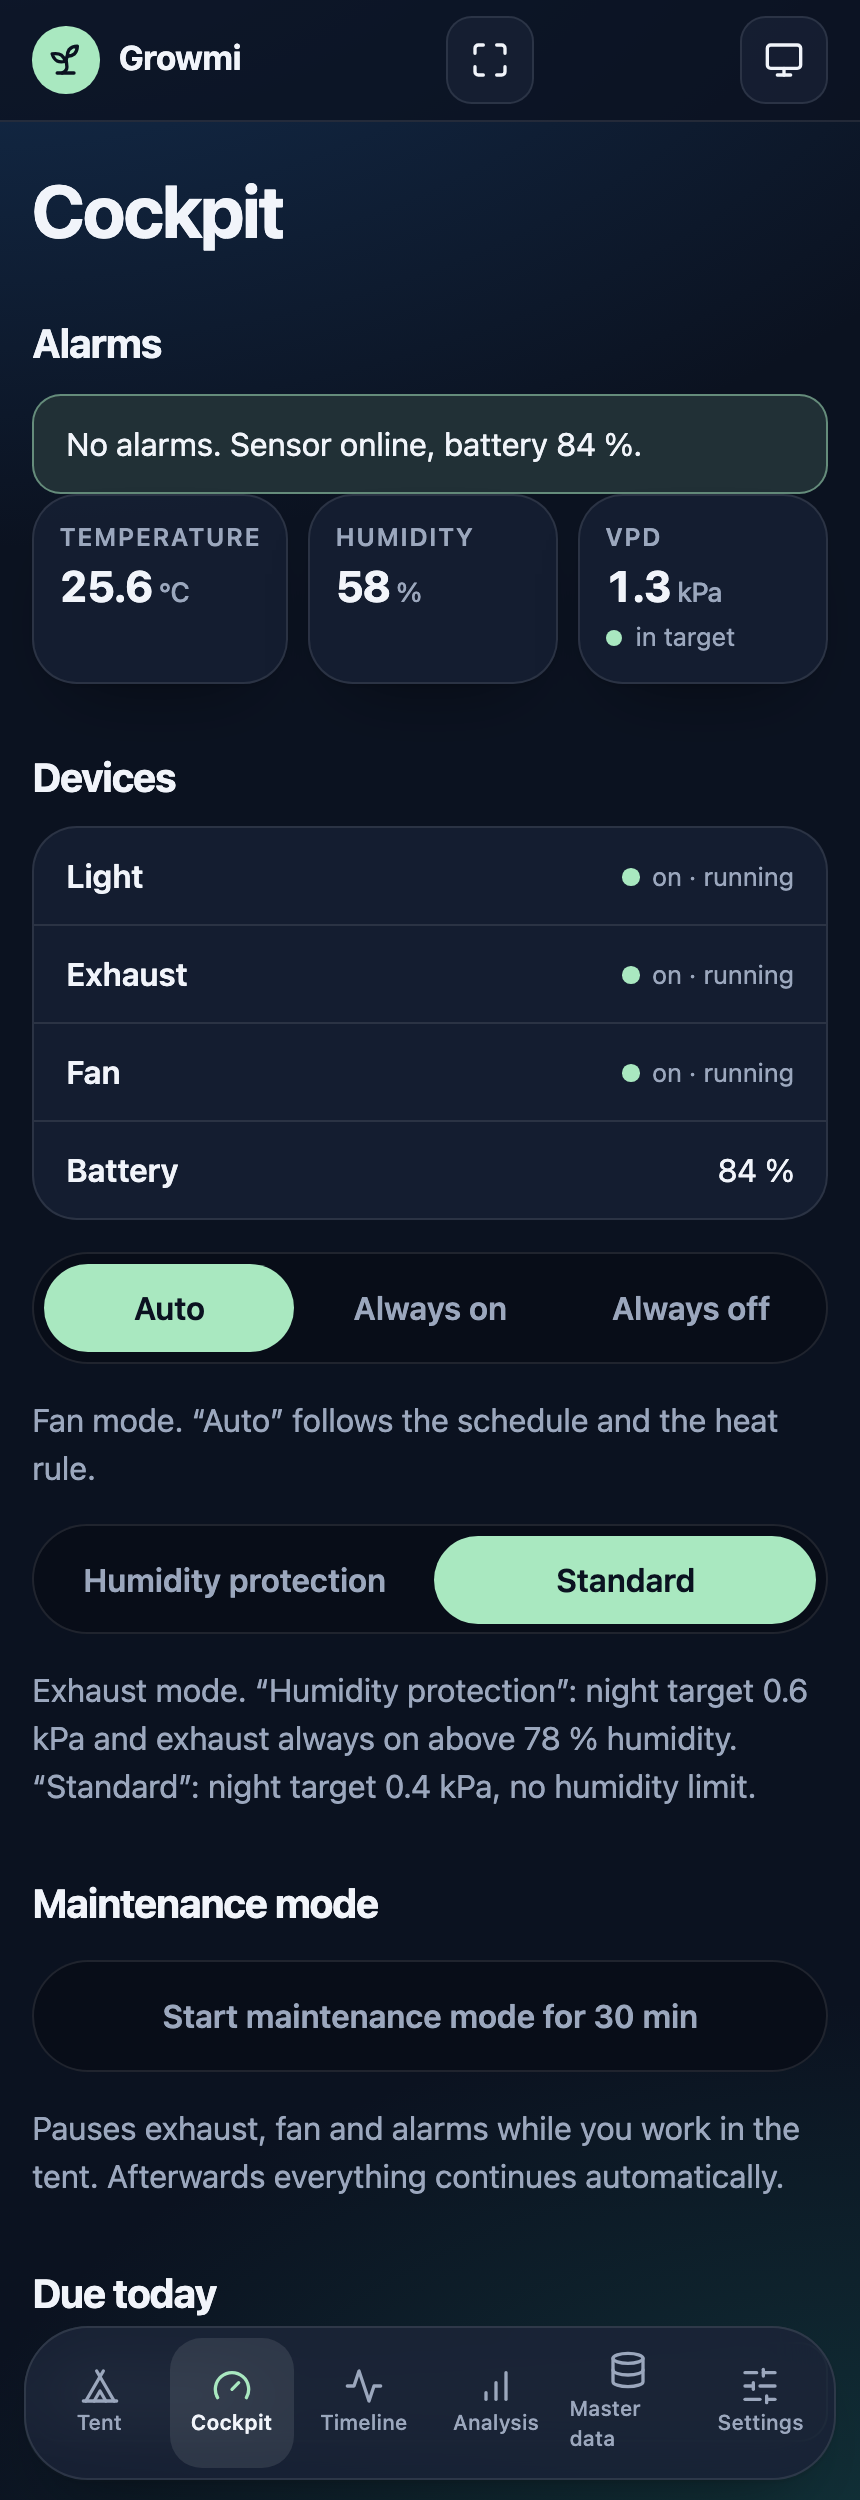
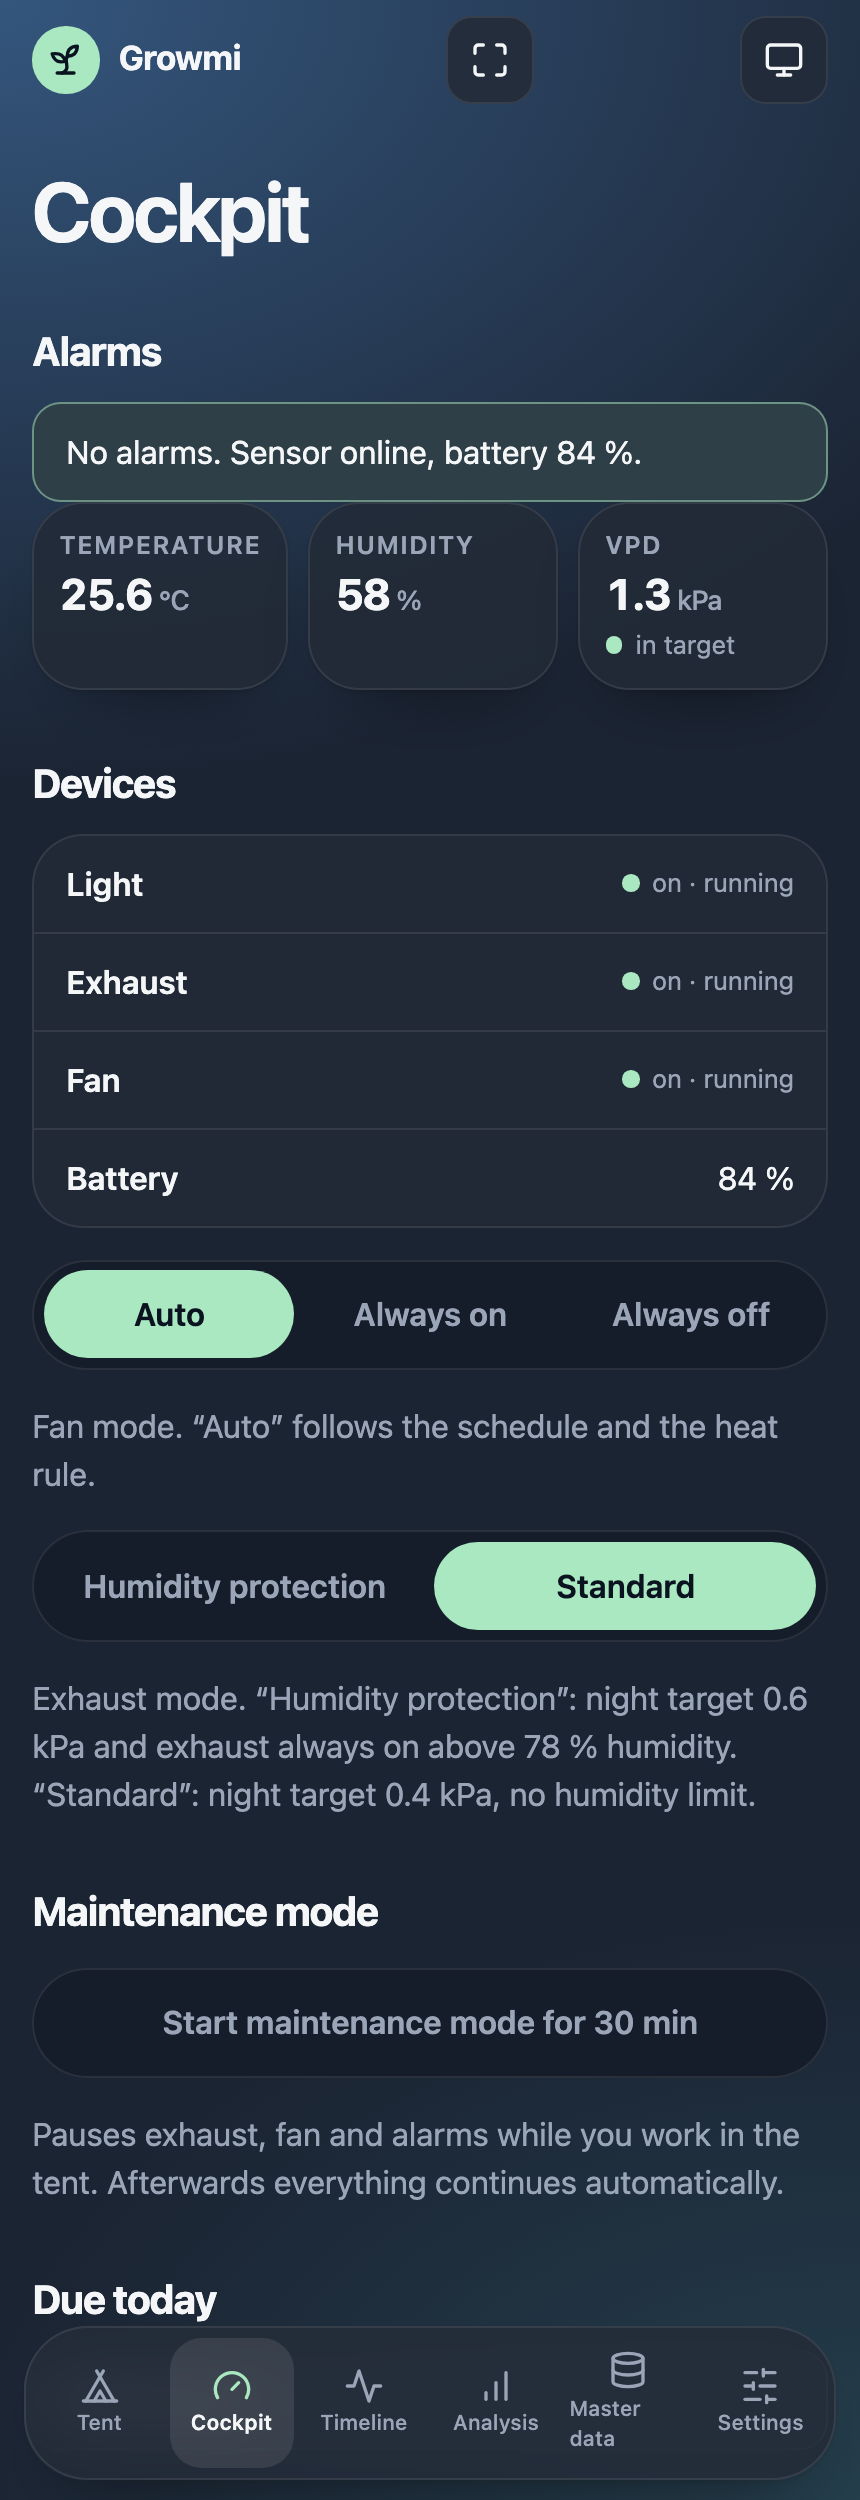
Overview in the dashboard look: climate card, pill actions, slate background (0.28.1)

diff --git a/growmi/app/static/style.css b/growmi/app/static/style.css
@@ -1,11 +1,11 @@
 /* Dark (default, deep navy) and light theme. Hex colors live only in the token blocks (a test checks it). */
 :root {
   color-scheme: dark;
-  --bg: #0b1220; --bg-alt: #080d18; --card: #182136; --line: #2a3550;
-  --text: #f1f4fa; --muted: #9ba7bd; --border: #6a7894;
+  --bg: #1b2433; --bg-alt: #161d2a; --card: #222a37; --line: #2c3648;
+  --text: #f4f6f8; --muted: #9aa5b8; --border: #7a89a3;
   --accent: #a9e8c0; --on-accent: #0b1220; --danger: #f4a3b3; --on-danger: #0b1220;
   --link: #a9c4f7; --focus: #c9bcff;
-  --glow-a: #1f4f86; --glow-b: #1c6b64;
+  --glow-a: #34567d; --glow-b: #2a4f5c;
   --ph-keimling: #f5d98b; --on-keimling: #0b1220;
   --ph-wachstum: #a9e8c0; --on-wachstum: #0b1220;
   --ph-bluete: #c3b1f7; --on-bluete: #0b1220;
@@ -42,9 +42,9 @@
 }
 /* theme switch: data-theme is set by the toggle in the app bar (stored per device); without it the system decides */
 :root {
-  --radius: 1.4rem;
-  --surface: color-mix(in srgb, var(--card) 72%, transparent);
-  --hairline: color-mix(in srgb, var(--text) 10%, transparent);
+  --radius: 1.6rem;
+  --surface: color-mix(in srgb, var(--card) 88%, transparent);
+  --hairline: color-mix(in srgb, var(--text) 9%, transparent);
   --shadow: 0 1px 2px color-mix(in srgb, black 12%, transparent),
             0 18px 36px -22px color-mix(in srgb, black 55%, transparent);
   --glow: color-mix(in srgb, var(--accent) 14%, transparent);
@@ -55,8 +55,8 @@ html { -webkit-text-size-adjust: 100%; }
 body { margin: 0; min-height: 100vh; color: var(--text); line-height: 1.5; font-size: 1rem;
   font-family: ui-sans-serif, system-ui, -apple-system, "Segoe UI", Roboto, sans-serif; accent-color: var(--accent);
   caret-color: var(--accent); scrollbar-color: var(--border) var(--bg-alt);
-  background: radial-gradient(60rem 36rem at -5% -8%, color-mix(in srgb, var(--glow-a) 55%, transparent), transparent 65%),
-    radial-gradient(48rem 30rem at 105% 105%, color-mix(in srgb, var(--glow-b) 40%, transparent), transparent 65%), var(--bg);
+  background: radial-gradient(50rem 34rem at 0% 0%, var(--glow-a), transparent 72%),
+    radial-gradient(40rem 26rem at 100% 100%, color-mix(in srgb, var(--glow-b) 60%, transparent), transparent 70%), var(--bg);
   background-attachment: fixed; }
 ::selection { background: color-mix(in srgb, var(--accent) 35%, transparent); }
 :focus-visible { outline: 3px solid var(--focus); outline-offset: 2px; }
@@ -69,8 +69,7 @@ table, .num { font-variant-numeric: tabular-nums; }
 
 /* app shell: brand bar on top, tab bar at the bottom on phones */
 .appbar { position: sticky; top: 0; z-index: 10; display: flex; align-items: center; justify-content: space-between;
-  gap: 1rem; padding: .6rem 1rem; background: color-mix(in srgb, var(--bg) 80%, transparent);
-  border-bottom: 1px solid var(--hairline); }  /* no backdrop-filter here: it would trap the fixed tab bar */
+  gap: 1rem; padding: .6rem 1rem; background: transparent; }  /* no backdrop-filter here: it would trap the fixed tab bar */
 .brand { display: inline-flex; align-items: center; gap: .6rem; color: var(--text); text-decoration: none;
   font-weight: 700; letter-spacing: -.01em; font-size: 1.05rem; }
 .brand .i { width: 2.1rem; height: 2.1rem; padding: .42rem; border-radius: 50%; color: var(--on-accent); background: var(--accent); }
@@ -90,7 +89,7 @@ main { padding: 1.25rem 1rem 3rem; max-width: 48rem; margin: 0 auto; }
   main { padding-bottom: 6.5rem; }
 }
 
-h1 { font-size: 2.3rem; line-height: 1.1; font-weight: 700; letter-spacing: -.03em; margin: .25rem 0 1.2rem; text-wrap: balance; }
+h1 { font-size: 2.6rem; line-height: 1.08; font-weight: 650; letter-spacing: -.035em; margin: .25rem 0 1.2rem; text-wrap: balance; }
 h2 { font-size: 1.25rem; font-weight: 700; margin: 2rem 0 .6rem; letter-spacing: -.02em; }
 h3 { font-size: 1.02rem; margin: 1.25rem 0 .5rem; }
 p { max-width: 65ch; }
@@ -351,3 +350,30 @@ output { font-size: .9rem; }
 .tile-ico { display: grid; place-items: center; width: 2.4rem; height: 2.4rem; margin-bottom: .35rem; border-radius: 50%;
   background: var(--c); color: var(--bg); }
 .c-phase { --c: var(--ph-wachstum); } .c-temp { --c: var(--ph-trocknung); } .c-rh { --c: var(--link); } .c-vpd { --c: var(--ph-bluete); }
+
+/* dashboard cards: round icon badge, big title, calm subtitle, pills */
+.card { padding: 1.3rem; border-radius: 1.9rem; background: var(--surface); border: 1px solid var(--hairline);
+  box-shadow: var(--shadow), inset 0 1px 0 color-mix(in srgb, var(--text) 6%, transparent); margin-bottom: 1rem; }
+.card-head { display: flex; align-items: center; gap: .9rem; }
+.card-titles { flex: 1; min-width: 0; }
+.card-title { margin: 0; font-size: 1.6rem; font-weight: 600; letter-spacing: -.02em; line-height: 1.15; }
+.card-sub { margin: .15rem 0 0; color: var(--muted); font-size: .95rem; }
+.section-title { margin: 1.6rem .2rem .7rem; }
+.ico { display: grid; place-items: center; flex: none; width: 2.9rem; height: 2.9rem; border-radius: 50%; background: var(--c); color: var(--bg); }
+.pill { display: inline-flex; align-items: center; gap: .45rem; padding: .35rem .85rem; border-radius: 999px; font-weight: 600; font-size: .9rem;
+  background: color-mix(in srgb, var(--c) 18%, transparent); color: var(--c); --c: var(--accent); }
+.pill i { width: .55rem; height: .55rem; border-radius: 50%; background: currentColor; }
+.pill.bad { --c: var(--danger); }
+.stats { display: grid; grid-template-columns: repeat(auto-fit, minmax(7.5rem, 1fr)); gap: .7rem; margin-top: 1.1rem; }
+.stat { display: flex; flex-direction: column; gap: .55rem; padding: 1rem; border-radius: 1.3rem;
+  background: color-mix(in srgb, var(--bg-alt) 55%, transparent); border: 1px solid var(--hairline); }
+.stat-value { font-size: 2rem; font-weight: 500; letter-spacing: -.03em; line-height: 1; }
+.stat-value small { font-size: 1rem; color: var(--muted); margin-left: .1rem; }
+.bar { height: .35rem; border-radius: 999px; background: color-mix(in srgb, var(--text) 12%, transparent); overflow: hidden; }
+.bar i { display: block; height: 100%; border-radius: inherit; background: var(--c); }
+.stat-label { color: var(--c); font-size: .9rem; }
+.quick-pills { display: grid; grid-template-columns: 1fr 1fr; gap: .6rem; }
+.pill-btn { display: flex; align-items: center; gap: .7rem; padding: .55rem 1rem .55rem .55rem; border-radius: 999px; min-width: 0;
+  background: var(--surface); border: 1px solid var(--hairline); color: var(--text); text-decoration: none; font-weight: 600; }
+.pill-btn .ico { width: 2.5rem; height: 2.5rem; }
+@media (min-width: 56rem) { main { max-width: 56rem; } }

diff --git a/growmi/app/templates/home.html b/growmi/app/templates/home.html
@@ -7,19 +7,32 @@
 {% if undo %}<div class="all-clear" role="status"><strong>{{ undo.sorte }}</strong> <span>Gegossen.</span>
   <form class="inline-form" method="post" action="{{ root }}/eintrag/watering/{{ undo.id }}/loeschen"><input type="hidden" name="back" value="/"><button class="btn ghost">Rückgängig</button></form></div>{% endif %}
 {% include "_phase_banner.html" %}
-{% if live.has.values()|select|list %}<section class="tiles" aria-label="Aktuelle Werte">
-  {% if live.has.phase %}<div class="tile"><span class="tile-ico c-phase">{{ icon('sprout') }}</span><span class="tile-label">Box-Phase</span><span class="tile-value">{{ tr(live.phase) }}</span></div>{% endif %}
-  {% if live.has.temp %}<div class="tile"><span class="tile-ico c-temp">{{ icon('thermo') }}</span><span class="tile-label">Temperatur</span><span class="tile-value num">{{ live.temp or '–' }}{% if live.temp %}<small> °C</small>{% endif %}</span></div>{% endif %}
-  {% if live.has.rh %}<div class="tile"><span class="tile-ico c-rh">{{ icon('droplet') }}</span><span class="tile-label">Luftfeuchte</span><span class="tile-value num">{{ live.rh or '–' }}{% if live.rh %}<small> %</small>{% endif %}</span></div>{% endif %}
-  {% if live.has.vpd %}<div class="tile"><span class="tile-ico c-vpd">{{ icon('gauge') }}</span><span class="tile-label">VPD</span><span class="tile-value num">{{ live.vpd or '–' }}{% if live.vpd %}<small> kPa</small>{% endif %}</span>
-    {% if live.vpd_status %}<span class="tile-status {{ live.vpd_status }}"><i aria-hidden="true"></i>{{ tr('im Ziel') if live.vpd_status == 'ok' else tr('außerhalb') }}</span>{% endif %}</div>{% endif %}
+{% if live.has.values()|select|list %}<section class="card hero" aria-label="Aktuelle Werte">
+  <div class="card-head">
+    <span class="ico c-phase">{{ icon('sprout') }}</span>
+    <div class="card-titles">
+      <h2 class="card-title">{% if live.has.phase %}{{ tr(live.phase) }}{% else %}Klima{% endif %}</h2>
+      <p class="card-sub">{% if week %}Woche {{ week }} · {% endif %}{{ plant_count }} Pflanzen</p>
+    </div>
+    {% if live.online is not none %}<span class="pill {{ 'ok' if live.online else 'bad' }}"><i></i>{{ 'Online' if live.online else 'Offline' }}</span>{% endif %}
+  </div>
+  <div class="stats">
+    {% if live.has.temp %}<div class="stat c-temp"><span class="stat-value num">{{ live.temp or '–' }}{% if live.temp %}<small>°C</small>{% endif %}</span>
+      <span class="bar" aria-hidden="true"><i style="width:{{ live.temp_pct }}%"></i></span><span class="stat-label">Temperatur</span></div>{% endif %}
+    {% if live.has.rh %}<div class="stat c-rh"><span class="stat-value num">{{ live.rh or '–' }}{% if live.rh %}<small>%</small>{% endif %}</span>
+      <span class="bar" aria-hidden="true"><i style="width:{{ live.rh_pct }}%"></i></span><span class="stat-label">Luftfeuchte</span></div>{% endif %}
+    {% if live.has.vpd %}<div class="stat c-vpd"><span class="stat-value num">{{ live.vpd or '–' }}{% if live.vpd %}<small>kPa</small>{% endif %}</span>
+      <span class="bar" aria-hidden="true"><i style="width:{{ live.vpd_pct }}%"></i></span>
+      <span class="stat-label">VPD{% if live.vpd_status %} · {{ tr('im Ziel') if live.vpd_status == 'ok' else tr('außerhalb') }}{% endif %}</span></div>{% endif %}
+  </div>
 </section>{% endif %}
-<div class="actions">
-  <a class="btn" href="{{ root }}/giessen">{{ icon('droplet') }} Alle gießen</a>
-  <a class="btn" href="{{ root }}/notiz">{{ icon('note') }} Notiz</a>
-  <a class="btn" href="{{ root }}/foto">{{ icon('camera') }} Foto</a>
-  <a class="btn ghost" href="{{ root }}/fotos">Fotovergleich</a>
+<div class="quick-pills">
+  <a class="pill-btn" href="{{ root }}/giessen"><span class="ico c-rh">{{ icon('droplet') }}</span>Alle gießen</a>
+  <a class="pill-btn" href="{{ root }}/notiz"><span class="ico c-vpd">{{ icon('note') }}</span>Notiz</a>
+  <a class="pill-btn" href="{{ root }}/foto"><span class="ico c-temp">{{ icon('camera') }}</span>Foto</a>
+  <a class="pill-btn" href="{{ root }}/fotos"><span class="ico c-phase">{{ icon('sprout') }}</span>Fotovergleich</a>
 </div>
+<h2 class="card-title section-title">Pflanzen</h2>
 <div class="tent" role="group" aria-label="Zelt von oben: hinten oben, vorne unten">
   <p class="tent-edge">Hinten</p>
   <div class="tent-grid">

diff --git a/growmi/app/routes_home.py b/growmi/app/routes_home.py
@@ -83,8 +83,12 @@ def live_values(ha, box_phase: str | None) -> dict:
     status = None
     if vpd and band:
         status = "ok" if band[0] <= float(vpd) <= band[1] else "warn"
+    temp, rh = _num(ha, "temp", 1), _num(ha, "rh", 0)
+    pct = lambda v, lo, hi: round(min(max((float(v) - lo) / (hi - lo), 0), 1) * 100) if v else 0  # bar fill: scale of the gauge
+    online = config.state(ha, "online")
     return {"phase": box_phase or config.state(ha, "phase") or "–",
-            "temp": _num(ha, "temp", 1), "rh": _num(ha, "rh", 0),
+            "temp": temp, "rh": rh, "temp_pct": pct(temp, 15, 35), "rh_pct": pct(rh, 0, 100), "vpd_pct": pct(vpd, 0, 2.5),
+            "online": None if online is None else online == "on",
             "vpd": vpd, "vpd_status": status,
             "has": {k: bool(config.entity(k)) for k in ("phase", "temp", "rh", "vpd")}}
 
@@ -92,8 +96,10 @@ def live_values(ha, box_phase: str | None) -> dict:
 @router.get("/")
 def home(request: Request, gegossen: int | None = None, conn=Depends(get_conn)):
     box = config.state(request.app.state.ha, "phase") or jobs.last_box_phase(conn)
-    return render(request, "home.html", cards=slot_cards(conn, request.app.state.options),
-                  live=live_values(request.app.state.ha, box), undo=_recent_watering(conn, gegossen),
+    cards = slot_cards(conn, request.app.state.options)
+    pw = jobs.phase_week(conn, date.today())
+    return render(request, "home.html", cards=cards, plant_count=sum(1 for c in cards if c["plant"]),
+                  week=pw[1] if pw else None, live=live_values(request.app.state.ha, box), undo=_recent_watering(conn, gegossen),
                   water=water_options(conn),
                   phase_suggestion=phase_link.suggestion(conn, request.app.state.ha, date.today()), back="/")
 

diff --git a/growmi/tests/test_ui_a11y.py b/growmi/tests/test_ui_a11y.py
@@ -156,7 +156,7 @@ def test_home_shows_live_climate_tiles(web):
     web.ha.states.update({"input_select.grow_phase": "Wachstum", "sensor.growbox_temperatur": "22.84",
                           "sensor.growbox_luftfeuchtigkeit": "66.0", "sensor.growbox_vpd": "0.94"})
     t = web.client.get("/").text
-    assert 'class="tiles"' in t and "22.8" in t and "66" in t and "0.94" in t and "im Ziel" in t
+    assert 'class="card hero"' in t and "22.8" in t and "66" in t and "0.94" in t and "im Ziel" in t
     assert "Wachstum" in t
     web.ha.states["sensor.growbox_vpd"] = "1.9"
     assert "außerhalb" in web.client.get("/").text
@@ -164,7 +164,7 @@ def test_home_shows_live_climate_tiles(web):
 
 def test_home_tiles_survive_missing_ha_values(web):
     t = web.client.get("/").text
-    assert 'class="tiles"' in t and t.count("–") >= 3
+    assert 'class="card hero"' in t and t.count("–") >= 3
 
 
 def test_app_shell_has_brand_and_icon_nav(web):

diff --git a/growmi/app/i18n_en.py b/growmi/app/i18n_en.py
@@ -168,6 +168,8 @@ EN: dict[str, str] = {
     "pH und EC": "pH and EC",
     "{0} · Gießen": "{0} · Watering",
     "Gießen": "Watering",
+    "Woche {0} ·": "Week {0} ·",
+    "{0} Pflanzen": "{0} plants",
     "Gießen eintragen": "Log watering",
     "Gilt für die ganze Installation. Bereits gespeicherte Ereignisse behalten die Sprache, in der sie entstanden sind.": "Applies to the whole installation. Events already saved keep the language they were created in.",
     "Grow-Kosten bisher": "Grow costs so far",

diff --git a/growmi/CHANGELOG.md b/growmi/CHANGELOG.md
@@ -1,5 +1,8 @@
 # Changelog
 
+## 0.28.1
+- Overview follows the dashboard look: steel-blue to slate background, lighter cards, no bar under the app bar. Climate values sit in one card with an icon badge, status pill and bars; quick actions are pills.
+
 ## 0.28.0
 - New look for the whole app: deep navy background with soft color glows, rounder glass-like cards, bigger headings, pastel pill buttons and round icon badges on the live tiles of the overview. Light theme follows the same style.
 
